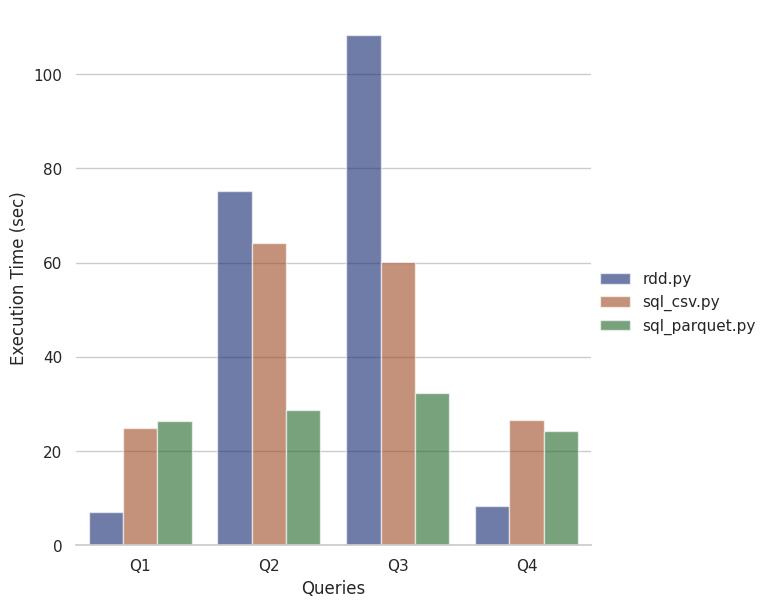
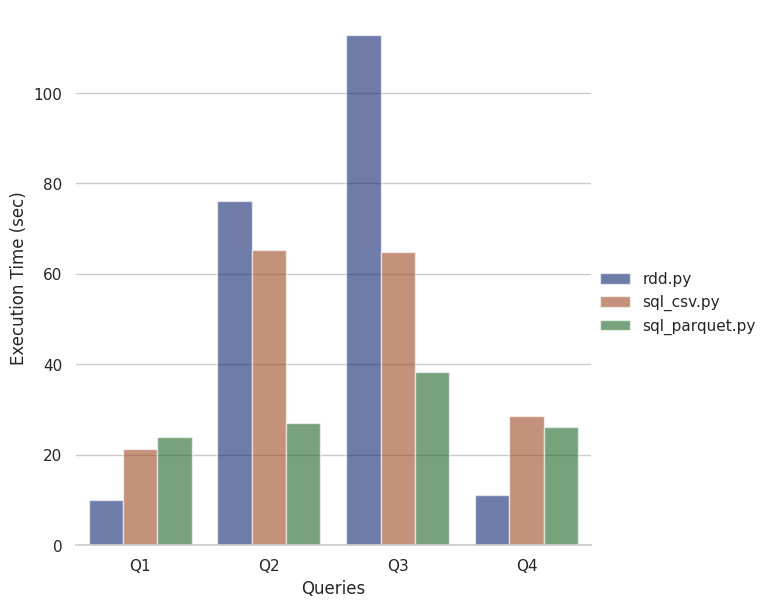
Moved start time, new results

diff --git a/src/query_3_rdd.py b/src/query_3_rdd.py
@@ -4,6 +4,9 @@ import csv
 import time
 import sys
 
+# Start counting execution time
+start_time = time.time()
+
 
 def split_complex(x):
     return list(csv.reader(StringIO(x), delimiter=','))[0]
@@ -15,12 +18,9 @@ def map_all_genres(tup):
     return ((genre, (rating, 1)) for genre in genres)
 
 
-spark = SparkSession.builder.appName("query_3").getOrCreate()
+spark = SparkSession.builder.appName("query_3_rdd").getOrCreate()
 
 sc = spark.sparkContext
-
-# Start counting execution time
-start_time = time.time()
 
 # Emits: (MovieID, Rating)
 rdd_ratings = sc.textFile("hdfs://master:9000/movie_data/ratings.csv") \

diff --git a/src/query_4_rdd.py b/src/query_4_rdd.py
@@ -4,6 +4,9 @@ import csv
 import time
 import sys
 
+# Start counting execution time
+start_time = time.time()
+
 
 def split_complex(x):
     return list(csv.reader(StringIO(x), delimiter=','))[0]
@@ -24,12 +27,9 @@ def return_5years_period(year):
         return "2015-2019"
 
 
-spark = SparkSession.builder.appName("query_4").getOrCreate()
+spark = SparkSession.builder.appName("query_4_rdd").getOrCreate()
 
 sc = spark.sparkContext
-
-# Start counting execution time
-start_time = time.time()
 
 # Emits: (MovieID, (Summary, Year))
 rdd_movies = sc.textFile("hdfs://master:9000/movie_data/movies.csv") \

diff --git a/src/query_1_rdd.py b/src/query_1_rdd.py
@@ -4,6 +4,9 @@ import csv
 import time
 import sys
 
+# Start counting execution time
+start_time = time.time()
+
 
 def split_complex(x):
     return list(csv.reader(StringIO(x), delimiter=','))[0]
@@ -20,12 +23,9 @@ def split_year(x):
     return x[3].split("-")[0]
 
 
-spark = SparkSession.builder.appName("query_1").getOrCreate()
+spark = SparkSession.builder.appName("query_1_rdd").getOrCreate()
 
 sc = spark.sparkContext
-
-# Start counting execution time
-start_time = time.time()
 
 # GroupByYear: Result (Year, Profit)
 rdd = sc.textFile("hdfs://master:9000/movie_data/movies.csv") \

diff --git a/src/query_2_rdd.py b/src/query_2_rdd.py
@@ -4,17 +4,17 @@ import csv
 import time
 import sys
 
+# Start counting execution time
+start_time = time.time()
+
 
 def split_complex(x):
     return list(csv.reader(StringIO(x), delimiter=','))[0]
 
 
-spark = SparkSession.builder.appName("query_2").getOrCreate()
+spark = SparkSession.builder.appName("query_2_rdd").getOrCreate()
 
 sc = spark.sparkContext
-
-# Start counting execution time
-start_time = time.time()
 
 # Emits: (User, Rating)
 rdd = sc.textFile("hdfs://master:9000/movie_data/ratings.csv") \

diff --git a/src/query_4_sql_parquet.py b/src/query_4_sql_parquet.py
@@ -3,6 +3,9 @@ from pyspark.sql.functions import udf
 import time
 import sys
 
+# Start counting execution time
+start_time = time.time()
+
 
 def return_5years_period(year):
     if (year <= 2004):
@@ -16,9 +19,6 @@ def return_5years_period(year):
 
 
 spark = SparkSession.builder.appName("query 4 - SQL, Parquet").getOrCreate()
-
-# Start counting execution time
-start_time = time.time()
 
 df_movies = spark.read.parquet(
     "hdfs://master:9000/movie_data/movies.parquet")

diff --git a/src/query_4_sql_csv.py b/src/query_4_sql_csv.py
@@ -5,6 +5,9 @@ from pyspark.sql.functions import udf
 import time
 import sys
 
+# Start counting execution time
+start_time = time.time()
+
 
 def return_5years_period(year):
     if (year <= 2004):
@@ -18,9 +21,6 @@ def return_5years_period(year):
 
 
 spark = SparkSession.builder.appName("query 4 - SQL, CSV").getOrCreate()
-
-# Start counting execution time
-start_time = time.time()
 
 spark.udf.register("return_5years_period", return_5years_period)
 

diff --git a/src/query_3_sql_parquet.py b/src/query_3_sql_parquet.py
@@ -2,10 +2,10 @@ from pyspark.sql import SparkSession
 import time
 import sys
 
-spark = SparkSession.builder.appName("query 3 - SQL, Parquet").getOrCreate()
-
 # Start counting execution time
 start_time = time.time()
+
+spark = SparkSession.builder.appName("query 3 - SQL, Parquet").getOrCreate()
 
 df_movie_genres = spark.read.parquet(
     "hdfs://master:9000/movie_data/movie_genres.parquet")

diff --git a/src/query_3_sql_csv.py b/src/query_3_sql_csv.py
@@ -4,10 +4,10 @@ from pyspark.sql.types import DoubleType, IntegerType, StringType
 import time
 import sys
 
-spark = SparkSession.builder.appName("query 3 - SQL, CSV").getOrCreate()
-
 # Start counting execution time
 start_time = time.time()
+
+spark = SparkSession.builder.appName("query 3 - SQL, CSV").getOrCreate()
 
 # Create schema for Table movie_genres
 schema_movie_genres = StructType([

diff --git a/src/query_2_sql_parquet.py b/src/query_2_sql_parquet.py
@@ -2,10 +2,10 @@ from pyspark.sql import SparkSession
 import time
 import sys
 
-spark = SparkSession.builder.appName("query 2 - SQL, Parquet").getOrCreate()
-
 # Start counting execution time
 start_time = time.time()
+
+spark = SparkSession.builder.appName("query 2 - SQL, Parquet").getOrCreate()
 
 df_ratings = spark.read.parquet(
     "hdfs://master:9000/movie_data/ratings.parquet")

diff --git a/src/query_1_sql_csv.py b/src/query_1_sql_csv.py
@@ -4,10 +4,10 @@ from pyspark.sql.types import DoubleType, IntegerType, StringType, TimestampType
 import time
 import sys
 
-spark = SparkSession.builder.appName("query 1 - SQL, CSV").getOrCreate()
-
 # Start counting execution time
 start_time = time.time()
+
+spark = SparkSession.builder.appName("query 1 - SQL, CSV").getOrCreate()
 
 # Create schema for Table
 schema = StructType([

diff --git a/src/query_1_sql_parquet.py b/src/query_1_sql_parquet.py
@@ -2,10 +2,10 @@ from pyspark.sql import SparkSession
 import time
 import sys
 
-spark = SparkSession.builder.appName("query 1 - SQL, Parquet").getOrCreate()
-
 # Start counting execution time
 start_time = time.time()
+
+spark = SparkSession.builder.appName("query 1 - SQL, Parquet").getOrCreate()
 
 df_movies = spark.read.parquet("hdfs://master:9000/movie_data/movies.parquet")
 

diff --git a/src/query_2_sql_csv.py b/src/query_2_sql_csv.py
@@ -4,10 +4,10 @@ from pyspark.sql.types import DoubleType, IntegerType, StringType
 import time
 import sys
 
-spark = SparkSession.builder.appName("query 2 - SQL, CSV").getOrCreate()
-
 # Start counting execution time
 start_time = time.time()
+
+spark = SparkSession.builder.appName("query 2 - SQL, CSV").getOrCreate()
 
 # Create schema for Table
 schema = StructType([
